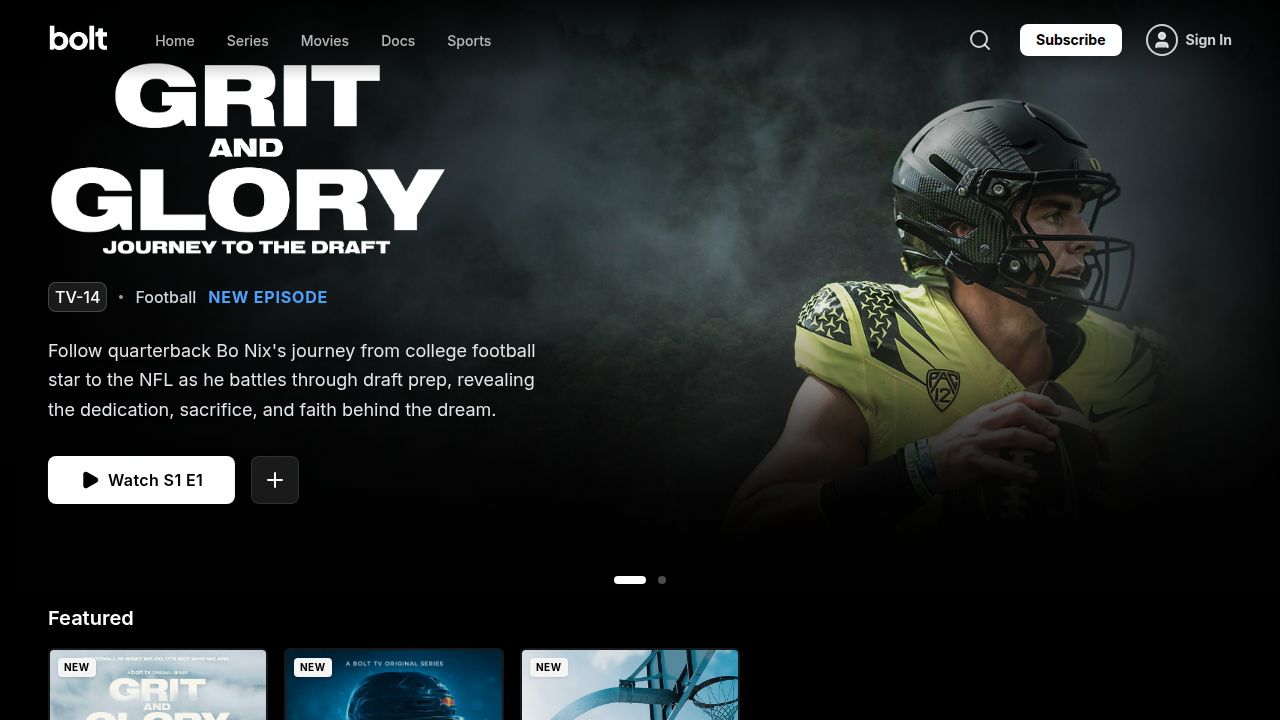
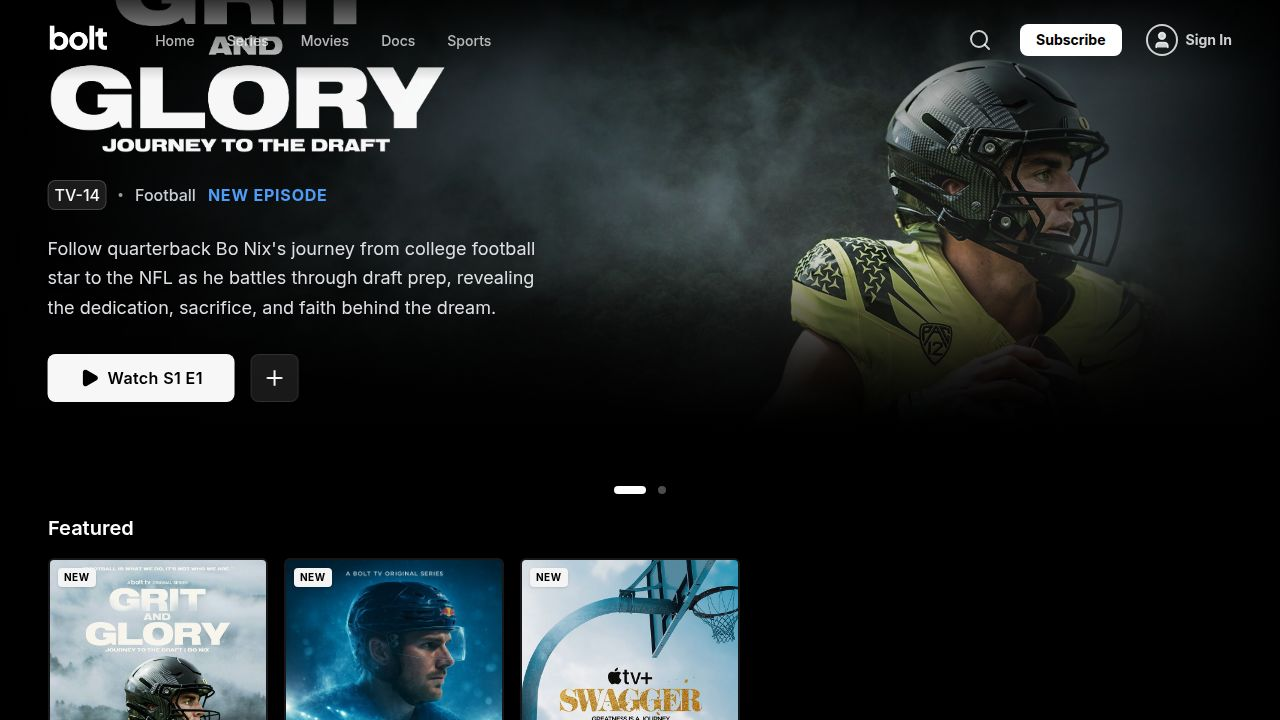
Ensure content details pages load at the top of the screen
Add window.scrollTo(0, 0) to the useEffect hook in ContentDetails.tsx to reset scroll position on content change.

Replit-Commit-Author: Agent
Replit-Commit-Session-Id: 2a9c0ebd-759b-45da-8413-4acc33c54613
Replit-Commit-Checkpoint-Type: full_checkpoint
Replit-Commit-Event-Id: cf1e348a-4612-4e98-bcab-e318c2cdce91
Replit-Commit-Screenshot-Url: https://storage.googleapis.com/screenshot-production-us-central1/5ba63d78-d64b-4f65-84d6-cc9de688a1b6/2a9c0ebd-759b-45da-8413-4acc33c54613/lN5nEj3
Replit-Helium-Checkpoint-Created: true

diff --git a/client/src/pages/ContentDetails.tsx b/client/src/pages/ContentDetails.tsx
@@ -66,10 +66,11 @@ export default function ContentDetails() {
   const [logoFailed, setLogoFailed] = useState(false);
   const [motionThumbnailFailed, setMotionThumbnailFailed] = useState(false);
   
-  // Reset states when content changes
+  // Reset states and scroll to top when content changes
   useEffect(() => {
     setLogoFailed(false);
     setMotionThumbnailFailed(false);
+    window.scrollTo(0, 0);
   }, [id]);
   
   // Get category from URL params (when coming from sport page)
